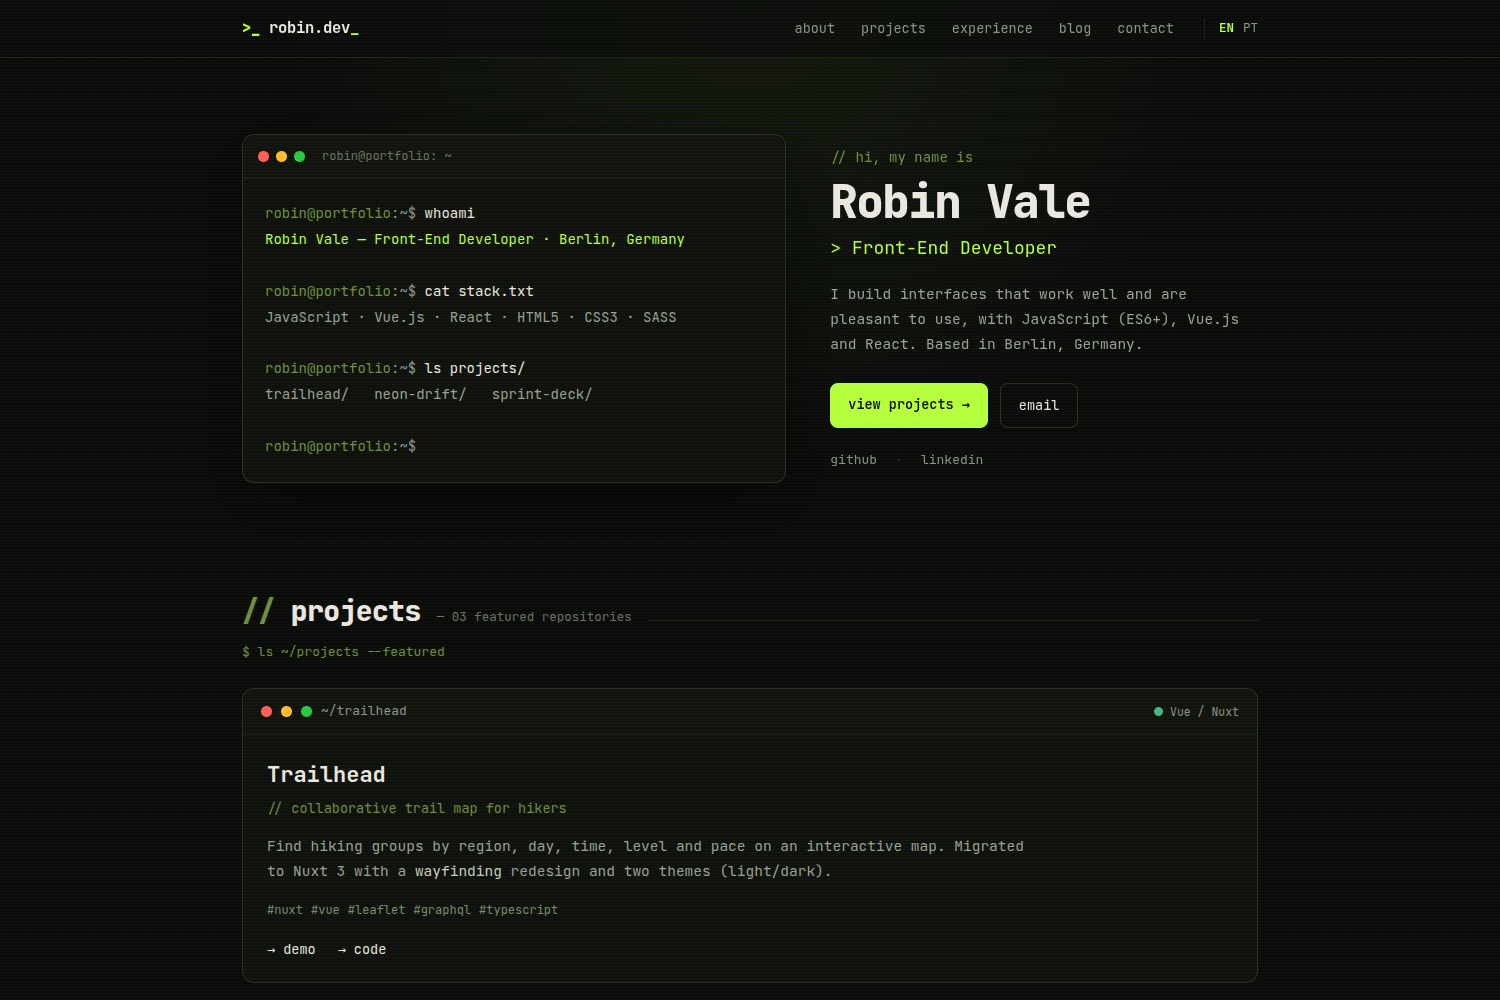
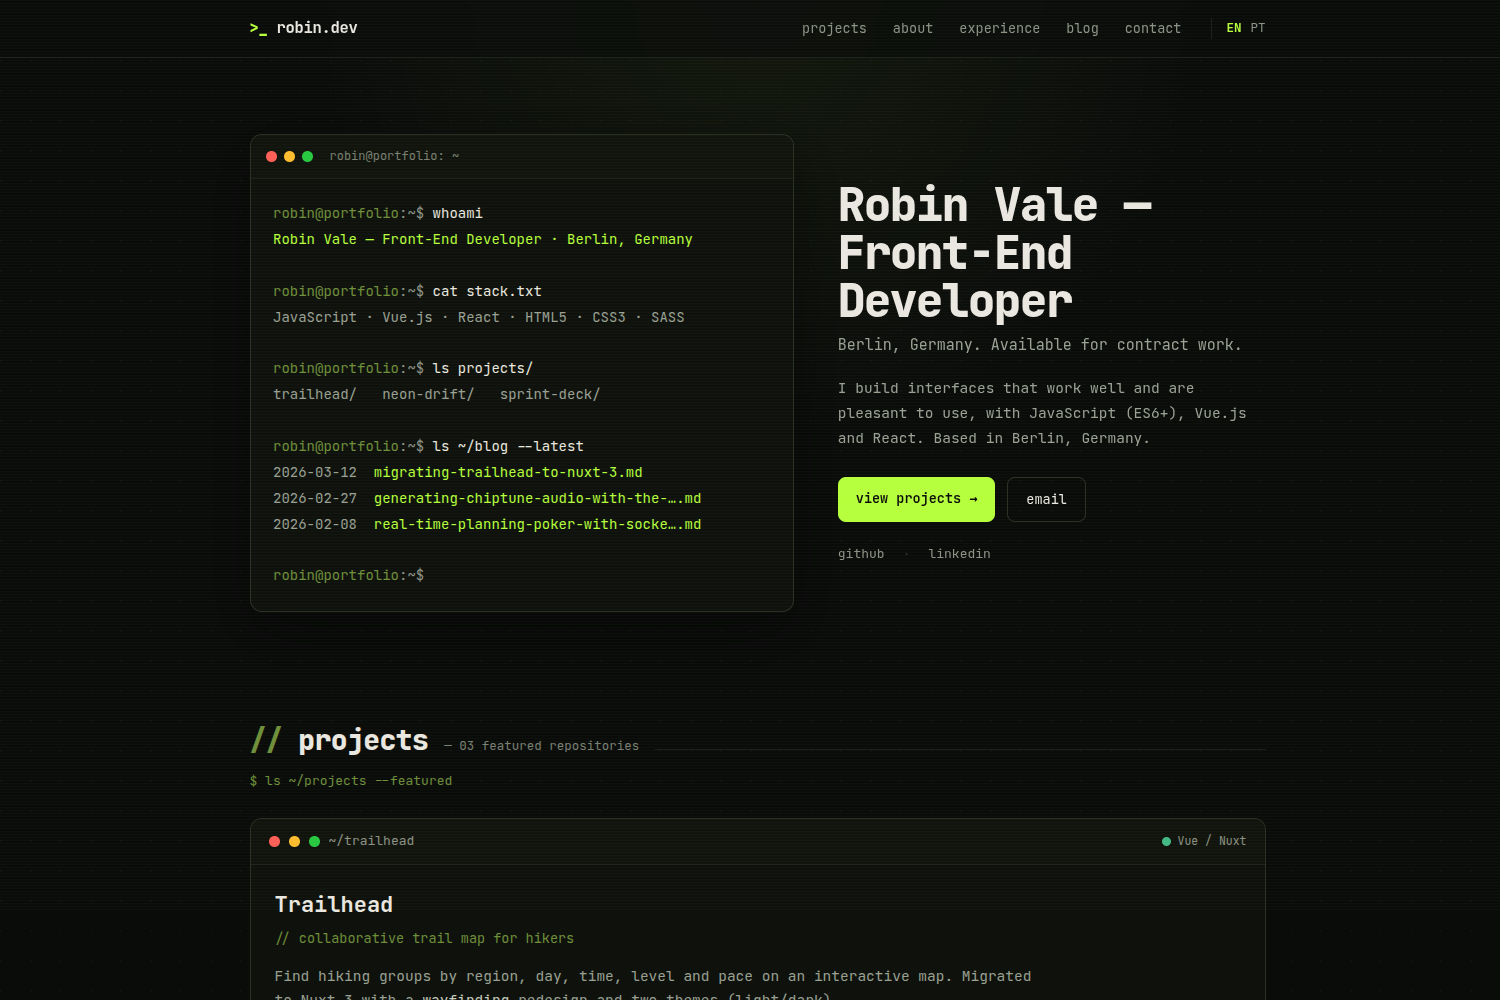
docs(demo): show the fused headline in the exampleSite, and recapture the images
v0.8.0 shipped fuseSubtitle, tagline and the removable intro with all three
commented out in exampleSite/hugo.toml. They were documented and never
demonstrated, so the demo, the bundled example and images/screenshot.png all kept
showing the two-line default — the feature was invisible to anyone deciding
whether to use the theme, which is most of what the demo is for.

fuseSubtitle goes in the shared [params.hero]; it is a boolean and language does
not change it. tagline and intro = "" go under [languages.en.params.hero] and its
pt counterpart, because that is the only place they translate — a tagline in the
shared block would print one language's line on both. The comments in the shared
block now point at where those two live rather than repeating them.

The commented example said "Lisbon, Portugal" while Robin Vale is in Berlin
everywhere else in the file — both `location` values, both `content` strings.
Fixed here and in the same example in README.md.

images/screenshot.png (1500×1000) and images/tn.png (900×600) are recaptured from
the exampleSite at DPR 1, with the hero terminal finished typing. They were stale
for a second reason that predates this: neither had the `ls ~/blog --latest`
block that latestPosts renders.

The demo's subtitle is "Front-End Developer", so the fused <h1> wraps to three
lines at 46px in a 428px column and breaks right after the em dash. Left as it
is, deliberately. Fusing makes a heading longer while it keeps a type size chosen
[…]

diff --git a/CHANGELOG.md b/CHANGELOG.md
@@ -6,6 +6,22 @@ and this project adheres to [Semantic Versioning](https://semver.org/).
 
 ## [Unreleased]
 
+### Changed
+- **The bundled `exampleSite` now demonstrates the fused headline** rather than
+  only documenting it. v0.8.0 shipped `fuseSubtitle`, `tagline` and the removable
+  `intro` commented out, so the demo and `images/screenshot.png` kept showing the
+  two-line default and the feature was invisible to anyone deciding whether to
+  use the theme. The switch is on in `[params.hero]`; `tagline` and `intro = ""`
+  sit under each language, which is the only place they can be translated.
+  `images/screenshot.png` and `images/tn.png` are recaptured from it — they were
+  also missing the hero terminal's `ls ~/blog --latest` block, which predates this.
+
+  The demo's subtitle is "Front-End Developer", so its fused `<h1>` wraps to three
+  lines at 46px in a 428px column and breaks after the em dash. That is what
+  fusing a long subtitle looks like and it is shown on purpose rather than hidden
+  behind a shorter stand-in — a heading sized for a name alone is inherited by one
+  that now carries a job title too, and that is worth a look of its own.
+
 ## [0.8.0] — 2026-08-27
 
 ### Added

diff --git a/README.md b/README.md
@@ -170,7 +170,7 @@ before scrolling:
 
 ```toml
 [params.hero]
-  tagline = "Lisbon, Portugal. Available for contract work."
+  tagline = "Berlin, Germany. Available for contract work."
 ```
 
 It works with either headline shape, and is left out of the markup entirely when
